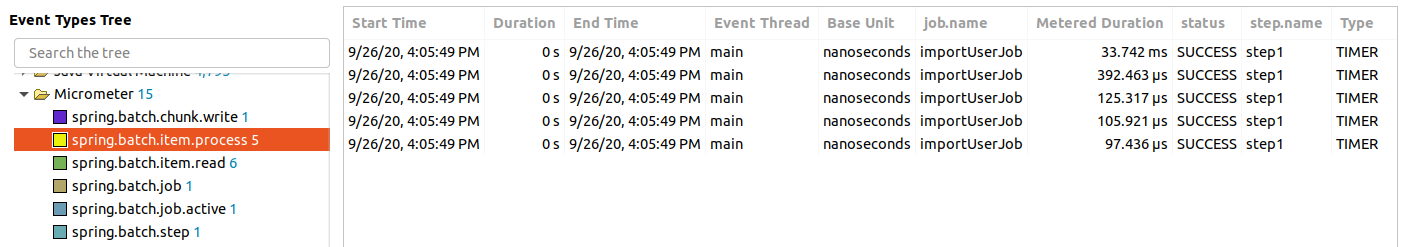
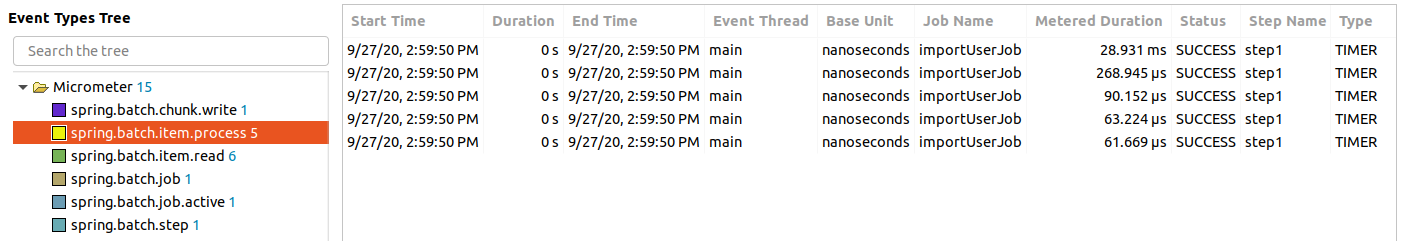
translate tag names

diff --git a/src/main/java/com/github/marschall/micrometer/jfr/AbstractMeterEventFactory.java b/src/main/java/com/github/marschall/micrometer/jfr/AbstractMeterEventFactory.java
@@ -6,8 +6,10 @@ import java.util.Optional;
 import java.util.concurrent.TimeUnit;
 
 import io.micrometer.core.instrument.Meter.Id;
+import io.micrometer.core.instrument.Meter.Type;
 import io.micrometer.core.instrument.Tag;
 import io.micrometer.core.instrument.binder.BaseUnits;
+import io.micrometer.core.instrument.config.NamingConvention;
 import io.micrometer.core.lang.Nullable;
 import jdk.jfr.AnnotationElement;
 import jdk.jfr.Category;
@@ -28,6 +30,40 @@ import jdk.jfr.ValueDescriptor;
  * event definitions.
  */
 abstract class AbstractMeterEventFactory<E extends AbstractJfrMeterEvent> {
+
+  static final NamingConvention CAPITALIZED_WORDS = new NamingConvention() {
+    @Override
+    public String name(String name, Type type, @Nullable String baseUnit) {
+      if (name.isEmpty()) {
+        return name;
+      }
+
+      String[] parts = name.split("\\.");
+      StringBuilder conventionName = new StringBuilder(name.length());
+      for (int i = 0; i < parts.length; i++) {
+        if (i > 0) {
+          conventionName.append(' ');
+        }
+        String part = parts[i];
+        char firstChar = part.charAt(0);
+        if (Character.isLowerCase(firstChar)) {
+          conventionName.append(Character.toUpperCase(firstChar));
+          conventionName.append(part, 1, part.length());
+        } else {
+          conventionName.append(part);
+        }
+      }
+
+      name.charAt(0);
+      return conventionName.toString();
+    }
+
+    @Override
+    public String tagKey(String key) {
+      return this.name(key, null, null);
+    }
+
+  };
 
   protected final Id id;
 
@@ -96,7 +132,7 @@ abstract class AbstractMeterEventFactory<E extends AbstractJfrMeterEvent> {
   private List<ValueDescriptor> getTagValueDescriptors() {
     List<ValueDescriptor> fields = new ArrayList<>();
     for (Tag tag : this.id.getTagsAsIterable()) {
-      List<AnnotationElement> tagAnnotations = List.of();
+      List<AnnotationElement> tagAnnotations = List.of(new AnnotationElement(Label.class, CAPITALIZED_WORDS.tagKey(tag.getKey())));
       ValueDescriptor valueDescriptor = new ValueDescriptor(String.class, tag.getKey(), tagAnnotations);
       fields.add(valueDescriptor);
     }

diff --git a/src/test/java/com/github/marschall/micrometer/jfr/AbstractMeterEventFactoryTests.java b/src/test/java/com/github/marschall/micrometer/jfr/AbstractMeterEventFactoryTests.java
@@ -18,12 +18,17 @@ class AbstractMeterEventFactoryTests {
     assertEquals(Timespan.MILLISECONDS, AbstractMeterEventFactory.mapTimeUnitToTimespan(TimeUnit.MILLISECONDS));
     assertEquals(Timespan.SECONDS, AbstractMeterEventFactory.mapTimeUnitToTimespan(TimeUnit.SECONDS));
   }
-  
+
   @Test
   void unsupporteTimeUnits() {
     assertThrows(IllegalArgumentException.class, () -> AbstractMeterEventFactory.mapTimeUnitToTimespan(TimeUnit.MINUTES));
     assertThrows(IllegalArgumentException.class, () -> AbstractMeterEventFactory.mapTimeUnitToTimespan(TimeUnit.HOURS));
     assertThrows(IllegalArgumentException.class, () -> AbstractMeterEventFactory.mapTimeUnitToTimespan(TimeUnit.DAYS));
+  }
+
+  @Test
+  void tagKeys() {
+    assertEquals("Job Name", AbstractMeterEventFactory.CAPITALIZED_WORDS.tagKey("job.name"));
   }
 
 }

diff --git a/README.md b/README.md
@@ -14,7 +14,7 @@ Metrics.addRegistry(new JfrMeterRegistry());
 <dependency>
   <groupId>com.github.marschall</groupId>
   <artifactId>micrometer-jfr</artifactId>
-  <version>0.2.0</version>
+  <version>0.3.0</version>
 </dependency>
 ```
 
@@ -28,6 +28,12 @@ Features
 - Maps `Id#getName()` and `Id#getDescription()` to `@Name` and `@Description`.
 - Stacktraces are disabled for all events for reduced overhead.
 - Generates a JFR event for every metered value.
+- A custom naming convention us used to translate tag names to capitalized words.
+
+Limitations
+-----------
+
+- The built in duration of most events is 0 instead a new attribute "Metered Duration" is added.
 
 
 Configuration
